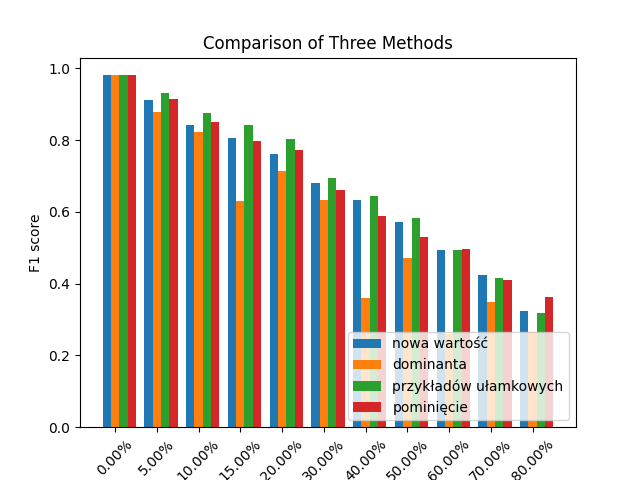
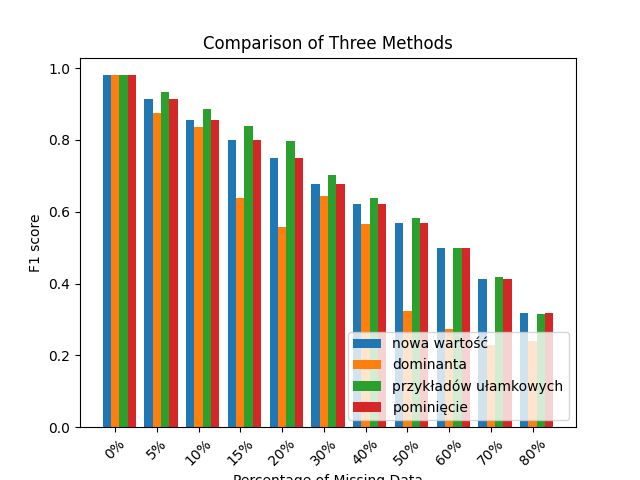
change skip logic

diff --git a/dataset_utils.py b/dataset_utils.py
@@ -40,13 +40,14 @@ def mask_random_attributes(attrs_vals, masking_rate):
         masked_attrs_vals.append(masked_values)
     return masked_attrs_vals
 
-def skip_random_inputs(data, masking_rate):
+def skip_missing_inputs(data):
     """
-    Randomly skips individual input values within the dataset.
+    Skips individual input values within the dataset with missing value.
     """
+    old_data_attr, _ = zip(*data)
     new_data = []
     for i in range(len(data)):
-        if random.random() < masking_rate:
+        if 'missing' in old_data_attr:
             continue
         new_data.append(data[i])
     return new_data
@@ -80,20 +81,20 @@ def split_random_to_train_and_test_data_diff_methods(attrs_vals, class_vals, per
     """
     masking_rate=masking_rate/100
     rand_seed = random.randint(-sys.maxsize-1, sys.maxsize)
+
+    attrs_vals = mask_random_attributes(attrs_vals, masking_rate)
+    attrs_vals_mode = copy.deepcopy(attrs_vals)
+    attrs_vals_distrib = copy.deepcopy(attrs_vals)
+    
     # skipped data 
     combined_data_skip = list(zip(attrs_vals, class_vals))
     random.seed(rand_seed)
     random.shuffle(combined_data_skip)
     split_index = int(len(combined_data_skip) * (percent_of_train_data / 100))
     train_data_skip = combined_data_skip[:split_index]
-    randomly_skipped_train_data = skip_random_inputs(train_data_skip, masking_rate)
-    train_attrs_vals_skip, train_class_vals_skip = zip(*randomly_skipped_train_data) if randomly_skipped_train_data else ([], [])
-
-
-    attrs_vals = mask_random_attributes(attrs_vals, masking_rate)
-    attrs_vals_mode = copy.deepcopy(attrs_vals)
-    attrs_vals_distrib = copy.deepcopy(attrs_vals)
-
+    skipped_train_data = skip_missing_inputs(train_data_skip)
+    train_attrs_vals_skip, train_class_vals_skip = zip(*skipped_train_data) if skipped_train_data else ([], [])
+    
     # masked data
     combined_data = list(zip(attrs_vals, class_vals))
     random.seed(rand_seed)

diff --git a/main.py b/main.py
@@ -181,7 +181,7 @@ for i in list_of_percent_train_data:
     print(acc)
     print(f1)
 
-    labels_for_percent_of_train_data.append('%.2f%%' % (i))
+    labels_for_percent_of_train_data.append('%.0f%%' % (i))
 
 visualize_tree(tree=decision_tree.tree, attrs_names=ATTRS_NAMES,output_name="tree.png")
 visulate_acc_per_replacement_method(list_of_acc, labels_for_percent_of_train_data)
